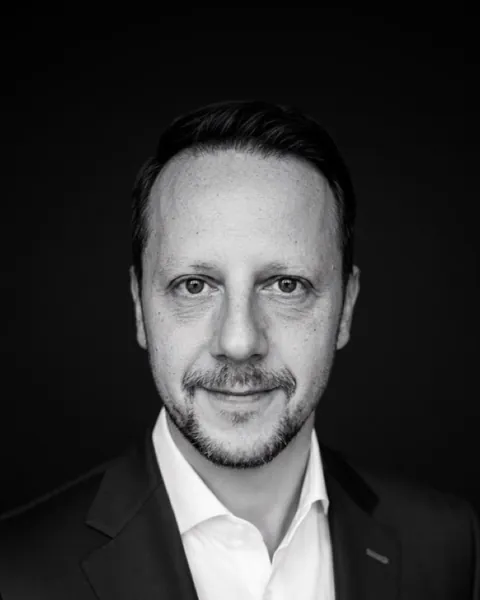
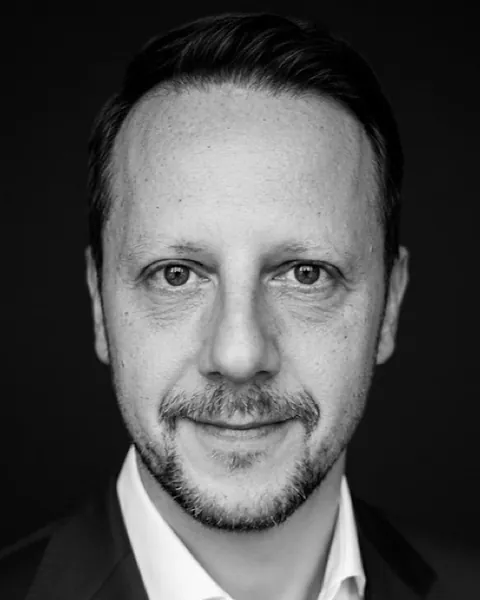
Team: neues Thomas-Porträt in Erichs Proportionen (800x1000, 480), Cache ?v=20261119

diff --git a/en/index.html b/en/index.html
@@ -163,8 +163,8 @@
   <div class="people">
     <figure class="person">
       <picture>
-        <source type="image/webp" srcset="../assets/team/thomas-malyska-480.webp 480w, ../assets/team/thomas-malyska-800.webp 800w" sizes="(min-width: 900px) 300px, 44vw">
-        <img src="../assets/team/thomas-malyska-800.jpg" width="800" height="1000" loading="lazy" decoding="async" alt="Thomas Malyska · CEO T1T CORE">
+        <source type="image/webp" srcset="../assets/team/thomas-malyska-480.webp?v=20261119 480w, ../assets/team/thomas-malyska-800.webp?v=20261119 800w" sizes="(min-width: 900px) 300px, 44vw">
+        <img src="../assets/team/thomas-malyska-800.jpg?v=20261119" width="800" height="1000" loading="lazy" decoding="async" alt="Thomas Malyska · CEO T1T CORE">
       </picture>
       <figcaption><strong>Thomas Malyska</strong><span>CEO T1T CORE</span></figcaption>
     </figure>

diff --git a/index.html b/index.html
@@ -163,8 +163,8 @@
   <div class="people">
     <figure class="person">
       <picture>
-        <source type="image/webp" srcset="assets/team/thomas-malyska-480.webp 480w, assets/team/thomas-malyska-800.webp 800w" sizes="(min-width: 900px) 300px, 44vw">
-        <img src="assets/team/thomas-malyska-800.jpg" width="800" height="1000" loading="lazy" decoding="async" alt="Thomas Malyska · CEO T1T CORE">
+        <source type="image/webp" srcset="assets/team/thomas-malyska-480.webp?v=20261119 480w, assets/team/thomas-malyska-800.webp?v=20261119 800w" sizes="(min-width: 900px) 300px, 44vw">
+        <img src="assets/team/thomas-malyska-800.jpg?v=20261119" width="800" height="1000" loading="lazy" decoding="async" alt="Thomas Malyska · CEO T1T CORE">
       </picture>
       <figcaption><strong>Thomas Malyska</strong><span>CEO T1T CORE</span></figcaption>
     </figure>
